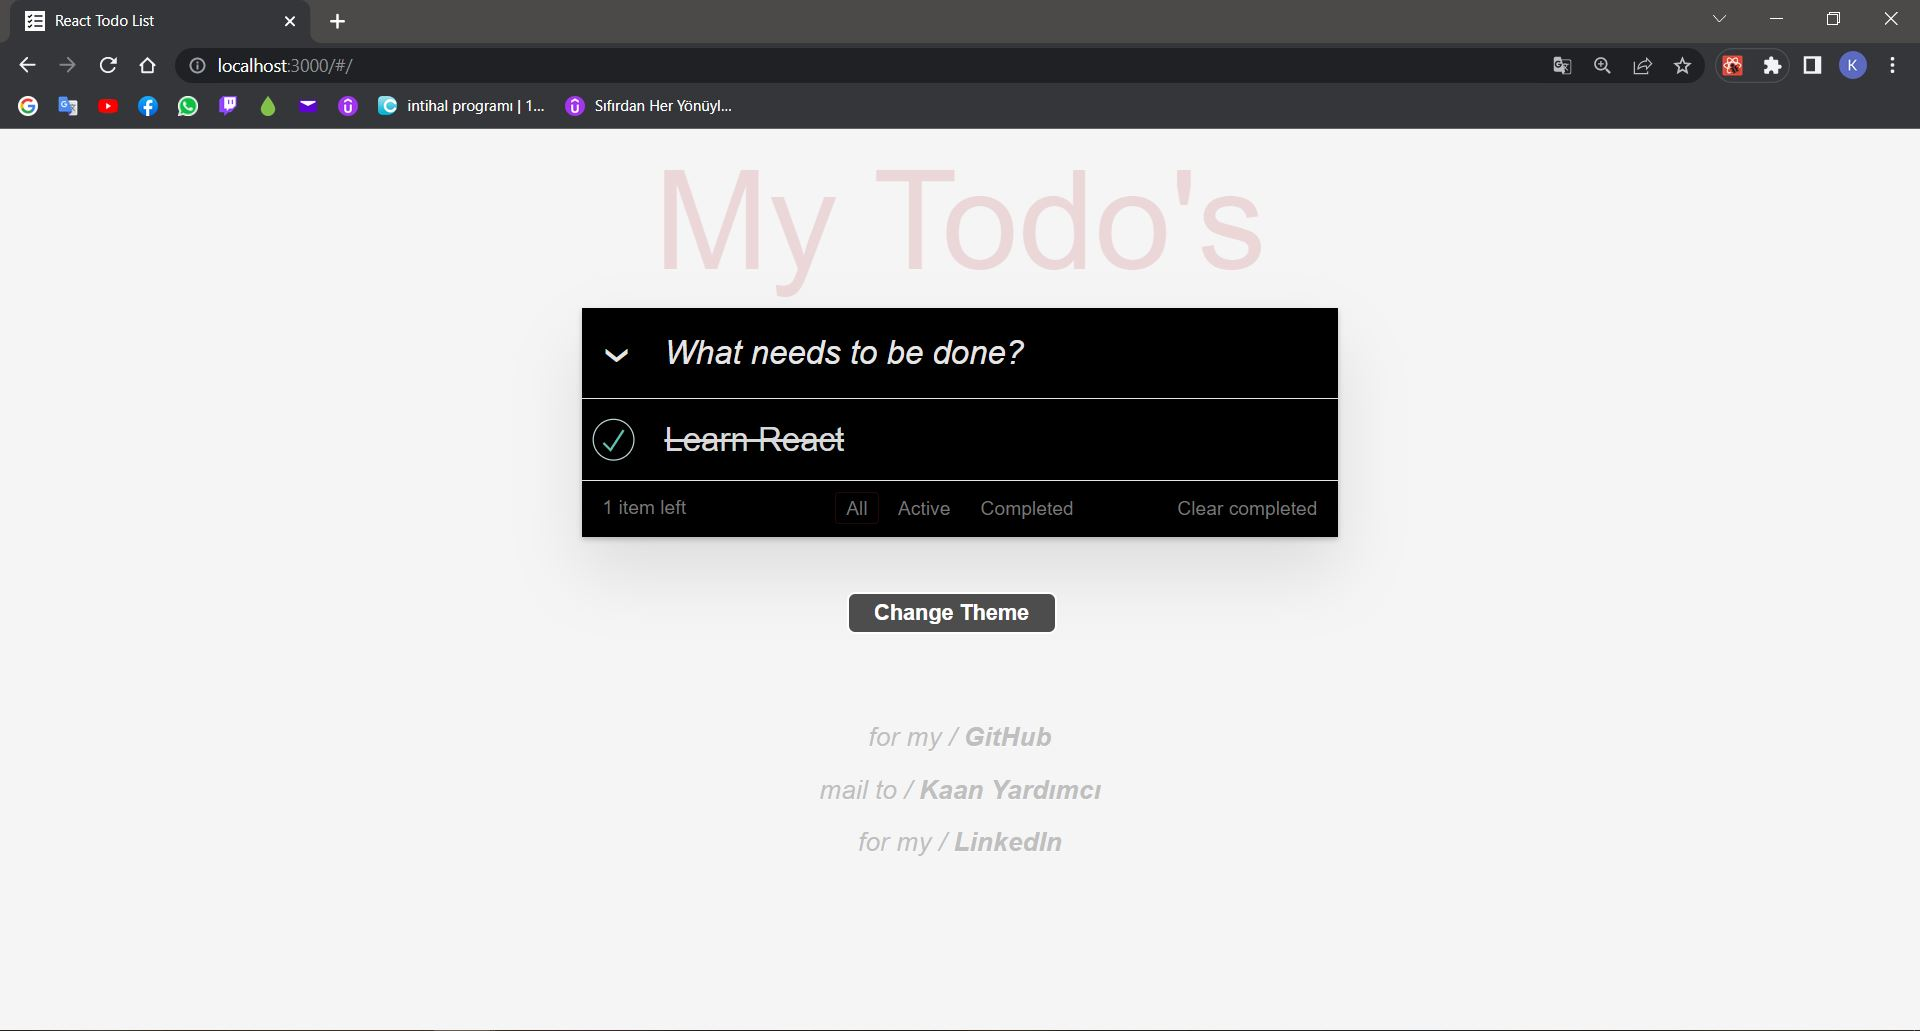
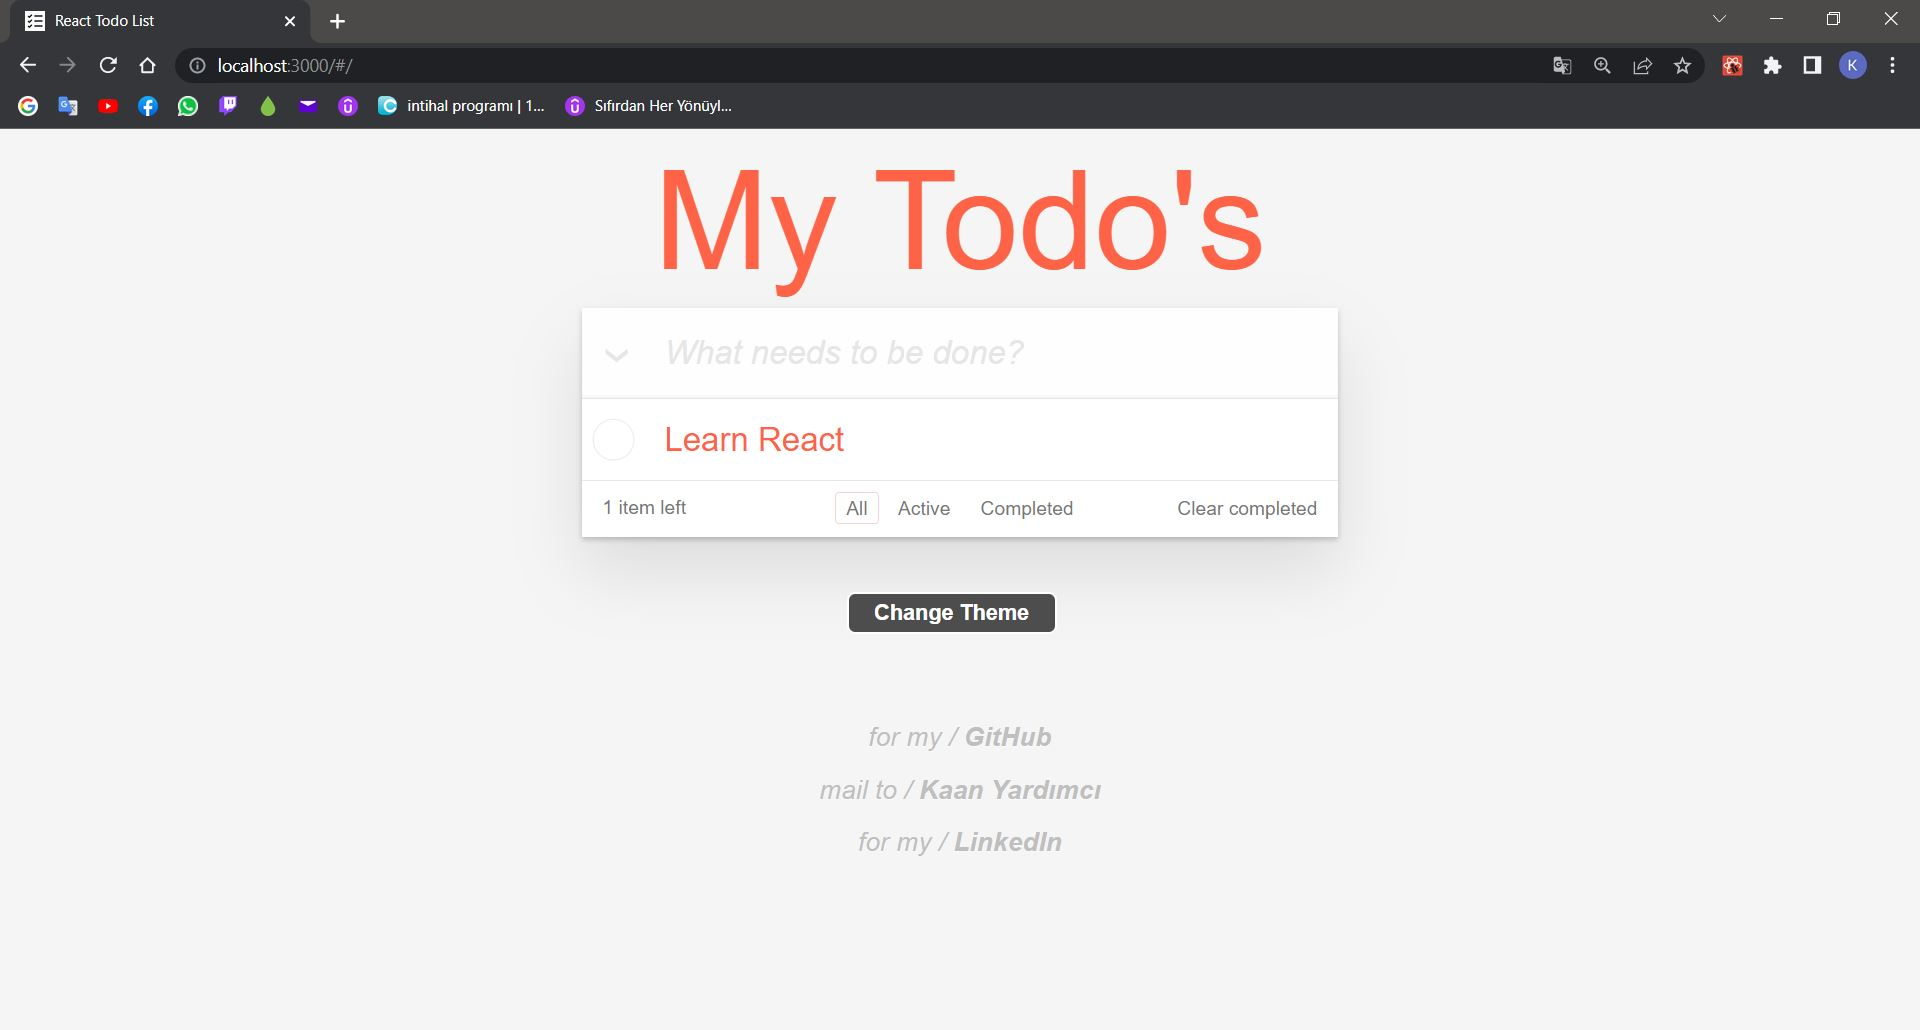
Finished

Changed region(s): [[0.2812, 0.1553, 0.7188, 0.5282], [0.0, 0.9942, 1.0, 1.0], [0.4688, 0.5903, 0.5, 0.6214]]

diff --git a/todoapp/src/components/Header/Header.jsx b/todoapp/src/components/Header/Header.jsx
@@ -5,7 +5,7 @@ function Header() {
     return (
         <div>
             <header className="header">
-                <h1>My Todo's</h1>
+                <h1 style={{color:"tomato"}}>My Todo's</h1>
                 <NewTodo />
             </header>
         </div>

diff --git a/todoapp/src/index.css b/todoapp/src/index.css
@@ -25,7 +25,7 @@ body {
 	font: 14px 'Helvetica Neue', Helvetica, Arial, sans-serif;
 	line-height: 1.4em;
 	background: #f5f5f5;
-	color: #4d4d4d;
+	color: tomato;
 	min-width: 230px;
 	max-width: 550px;
 	margin: 0 auto;
